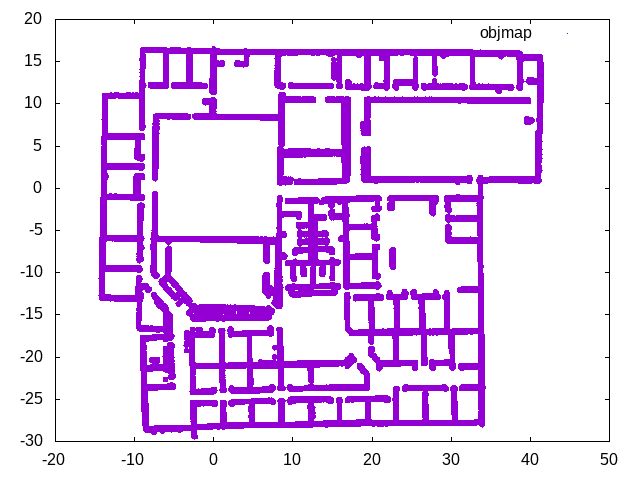
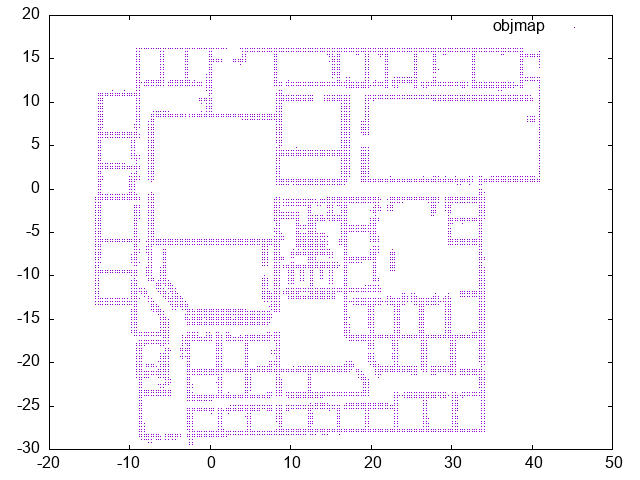
add logging & fix grid generation

diff --git a/main.go b/main.go
@@ -5,7 +5,9 @@ import (
 	"encoding/json"
 	"flag"
 	"fmt"
+	"io"
 	"log"
+	"os"
 	"sync"
 	"time"
 
@@ -25,25 +27,30 @@ import (
 	pbase "github.com/synerex/synerex_proto"
 )
 
-var (
-	mode        Mode    = ASTAR3D
-	resolution  float64 = 0.5
+const (
+	resolution  float64 = 0.3
 	robotRadius float64 = 0.35
+	closeThresh float64 = 0.85
 
 	mapFile  string = "map/willow_garage_v_edited.pgm"
 	yamlFile string = "map/willow_garage_v_edited.yaml"
+)
+
+var (
+	mode Mode = ASTAR3D
+
 	mqttsrv         = flag.String("mqtt", "localhost", "MQTT Broker address")
+	nodesrv         = flag.String("nodesrv", "127.0.0.1:9990", "node serv address")
+	sxServerAddress string
 
 	mapMetaUpdate               = false
 	mapMeta       *grid.MapMeta = nil
 	gridMap       *grid.GridMap = nil
-	//objMap        [][2]float64
-	astarPlanner *astar.Astar
+	astarPlanner  *astar.Astar  //if 2d mode
 
-	mu              sync.Mutex
-	nodesrv         = flag.String("nodesrv", "127.0.0.1:9990", "node serv address")
-	sxServerAddress string
+	mu sync.Mutex
 
+	//synerex client
 	mqttClient  *sxutil.SXServiceClient
 	routeClient *sxutil.SXServiceClient
 
@@ -60,8 +67,8 @@ func init() {
 type Mode int
 
 const (
-	ASTAR2D Mode = iota
-	ASTAR3D
+	ASTAR2D Mode = iota //normal astar
+	ASTAR3D             //original astar
 )
 
 func routeCallback(clt *sxutil.SXServiceClient, sp *api.Supply) {
@@ -132,6 +139,7 @@ func subsclibeRouteSupply(client *sxutil.SXServiceClient) {
 	}
 }
 
+//synerex recconect to client
 func reconnectClient(client *sxutil.SXServiceClient) {
 	mu.Lock()
 	if client.SXClient != nil {
@@ -183,9 +191,6 @@ func listenMQTTBroker() {
 	}
 	opts := mqtt.NewClientOptions()
 	opts.AddBroker("tcp://" + *mqttsrv + ":1883") // currently only 1883 port.
-	//opts.SetDefaultPublishHandler(func(client mqtt.Client, msg mqtt.Message) {
-	//	choke <- [2]string{msg.Topic(), string(msg.Payload())}
-	//m})
 
 	clt := mqtt.NewClient(opts)
 
@@ -198,21 +203,20 @@ func listenMQTTBroker() {
 	}
 }
 
-func main() {
-	go sxutil.HandleSigInt()
-	wg := sync.WaitGroup{}
-	flag.Parse()
-	sxutil.RegisterDeferFunction(sxutil.UnRegisterNode)
+func LoggingSettings(logFile string) {
+	logfile, _ := os.OpenFile(logFile, os.O_RDWR|os.O_CREATE|os.O_APPEND, 0666)
+	multiLogFile := io.MultiWriter(os.Stdout, logfile)
+	log.SetFlags(log.Ldate | log.Ltime)
+	log.SetOutput(multiLogFile)
+}
 
-	listenMQTTBroker()
-
+func SetupSynerex() {
 	channels := []uint32{pbase.MQTT_GATEWAY_SVC, pbase.ROUTING_SERVICE}
 	srv, err := sxutil.RegisterNode(*nodesrv, "GeoRoutingProvider", channels, nil)
 	if err != nil {
 		log.Fatal("can not registar node")
 	}
 	log.Printf("connectiong server [%s]", srv)
-
 	sxServerAddress = srv
 
 	synerexClient := sxutil.GrpcConnectServer(srv)
@@ -220,41 +224,60 @@ func main() {
 	mqttClient = sxutil.NewSXServiceClient(synerexClient, pbase.MQTT_GATEWAY_SVC, argJson1)
 	argJson2 := "{Client: GeoRoute}"
 	routeClient = sxutil.NewSXServiceClient(synerexClient, pbase.ROUTING_SERVICE, argJson2)
+}
 
+func SetupStaticMap() {
+	mapMeta, err := grid.ReadStaticMapImage(yamlFile, mapFile, closeThresh)
+	if err != nil {
+		log.Print("read map file errore: ", err)
+	}
+	objMap := mapMeta.GetObjectMap()
+	if mode == ASTAR2D {
+		plot2d.AddPointGroup("map", "dots", grid.Convert2DPoint(objMap))
+		plot2d.SavePlot("map/raw_static_map.png")
+		astarPlanner = astar.NewAstar(objMap, robotRadius, resolution)
+		log.Print("load astar obj map")
+	} else if mode == ASTAR3D {
+		maxT := grid.MaxTimeLength
+		gridMap = grid.NewGridMapReso(*mapMeta, maxT, robotRadius, resolution, objMap)
+		err = plot2d.AddPointGroup("objmap", "dots", gridMap.ConvertObjMap2Point())
+		if err != nil {
+			log.Print("plot add group error: ", err)
+		}
+		err = plot2d.SavePlot("map/static_obj_map.png")
+		if err != nil {
+			log.Print("save map error: ", err)
+		}
+	}
+}
+
+func main() {
+	go sxutil.HandleSigInt()
+	wg := sync.WaitGroup{}
+	flag.Parse()
+	sxutil.RegisterDeferFunction(sxutil.UnRegisterNode)
+
+	//logging configuration
+	now := time.Now()
+	LoggingSettings("log/" + now.Format("2006-01-02-15-4") + ".log")
+
+	// connect to mqtt broker
+	listenMQTTBroker()
+
+	// Synerex Configuration
+	SetupSynerex()
+
+	// visualization configuration
 	plot2d, _ = glot.NewPlot(2, false, false)
 	plot3d, _ = glot.NewPlot(3, false, false)
 
-	mapMeta, err = grid.ReadStaticMapImage(yamlFile, mapFile, 0.65)
-	if err != nil {
-		log.Print(err)
-	}
-	objMap := mapMeta.GetObjectMap()
-	plot, _ := glot.NewPlot(2, false, false)
-	err = plot.AddPointGroup("map", "dots", grid.Convert2DPoint(objMap))
-	if err != nil {
-		log.Print(err)
-	}
-	plot.SavePlot("map/generated_static_map.png")
-	astarPlanner = astar.NewAstar(objMap, robotRadius, resolution)
-	log.Print("load astar obj map")
+	// load static map data
+	SetupStaticMap()
 
-	maxT := grid.MaxTimeLength
-	gridMap = grid.NewGridMap(*mapMeta, maxT, robotRadius)
-	plot2d.AddPointGroup("objmap", "dots", gridMap.ConvertObjMap2Point())
-	plot2d.SavePlot("map/static_obj_map.png")
-
+	//start main function
 	log.Print("start subscribing")
 	go handleMqttMessage()
 	go subsclibeRouteSupply(routeClient)
-	// go subsclibeMQQTSupply(mqttClient)
 	wg.Add(1)
 	wg.Wait()
-	// sx, sy := 10, 10
-	// gx, gy := 20, 20
-	// route, err := g.Plan(sx, sy, gx, gy)
-	// if err != nil {
-	// 	log.Print(err)
-	// }
-	// r := g.Route2Pos(0.0, route)
-	// log.Print(r)
 }

diff --git a/routing/routing.go b/routing/routing.go
@@ -112,7 +112,6 @@ func NewGridMap(m MapMeta, maxT int, robotRadius float64) *GridMap {
 			g.ObjectMap[i/width][i%width] = false
 		}
 	}
-	log.Print("load ros data")
 
 	start := time.Now()
 	for j := 0; j < m.H; j++ {
@@ -134,7 +133,7 @@ func NewGridMap(m MapMeta, maxT int, robotRadius float64) *GridMap {
 			}
 		}
 	}
-	elaps := time.Now().Sub(start).Seconds()
+	elaps := time.Since(start).Seconds()
 	log.Printf("load objmap using robot radius takes %f seconds", elaps)
 
 	for i := 0; i < maxT; i++ {
@@ -144,8 +143,9 @@ func NewGridMap(m MapMeta, maxT int, robotRadius float64) *GridMap {
 }
 
 func NewGridMapReso(m MapMeta, maxT int, robotRadius float64, resolution float64, objMap [][2]float64) *GridMap {
+	start := time.Now()
 	g := new(GridMap)
-	g.Resolution = m.Reso
+	g.Resolution = resolution
 
 	var xList []float64
 	var yList []float64
@@ -160,32 +160,38 @@ func NewGridMapReso(m MapMeta, maxT int, robotRadius float64, resolution float64
 	g.Origin.X = MinFloat(xList)
 	g.Origin.Y = MinFloat(yList)
 
-	g.Width = int(math.Round(maxX - g.Origin.X))
-	g.Height = int(math.Round(maxY - g.Origin.Y))
+	g.Width = int(math.Round((maxX - g.Origin.X) / resolution))
+	g.Height = int(math.Round((maxY - g.Origin.Y) / resolution))
 
 	g.MaxT = maxT
-	g.ObjectMap = make([][]bool, m.H)
-	for i := 0; i < m.H; i++ {
-		g.ObjectMap[i] = make([]bool, m.W)
+	g.ObjectMap = make([][]bool, g.Height)
+	for i := 0; i < g.Height; i++ {
+		g.ObjectMap[i] = make([]bool, g.Width)
 	}
-	g.TW = make(TimeObjMap, maxT)
 
+	count := 0
 	for j := 0; j < g.Height; j++ {
 		y := g.Origin.Y + float64(j)*g.Resolution
 		for i := 0; i < g.Width; i++ {
 			x := g.Origin.X + float64(i)*g.Resolution
+			g.ObjectMap[j][i] = false
 			for _, op := range objMap {
 				d := math.Hypot(op[0]-x, op[1]-y)
 				if d <= robotRadius {
 					g.ObjectMap[j][i] = true
+					count += 1
 					break
 				}
 			}
 		}
 	}
+
+	g.TW = make(TimeObjMap, maxT)
 	for i := 0; i < maxT; i++ {
 		g.TW[i] = g.ObjectMap
 	}
+	elaps := time.Since(start).Seconds()
+	log.Printf("loading gridmap resolution: %f, takes: %f seconds, obj %d counts, width: %d, height: %d", resolution, elaps, count, g.Width, g.Height)
 	return g
 }
 
